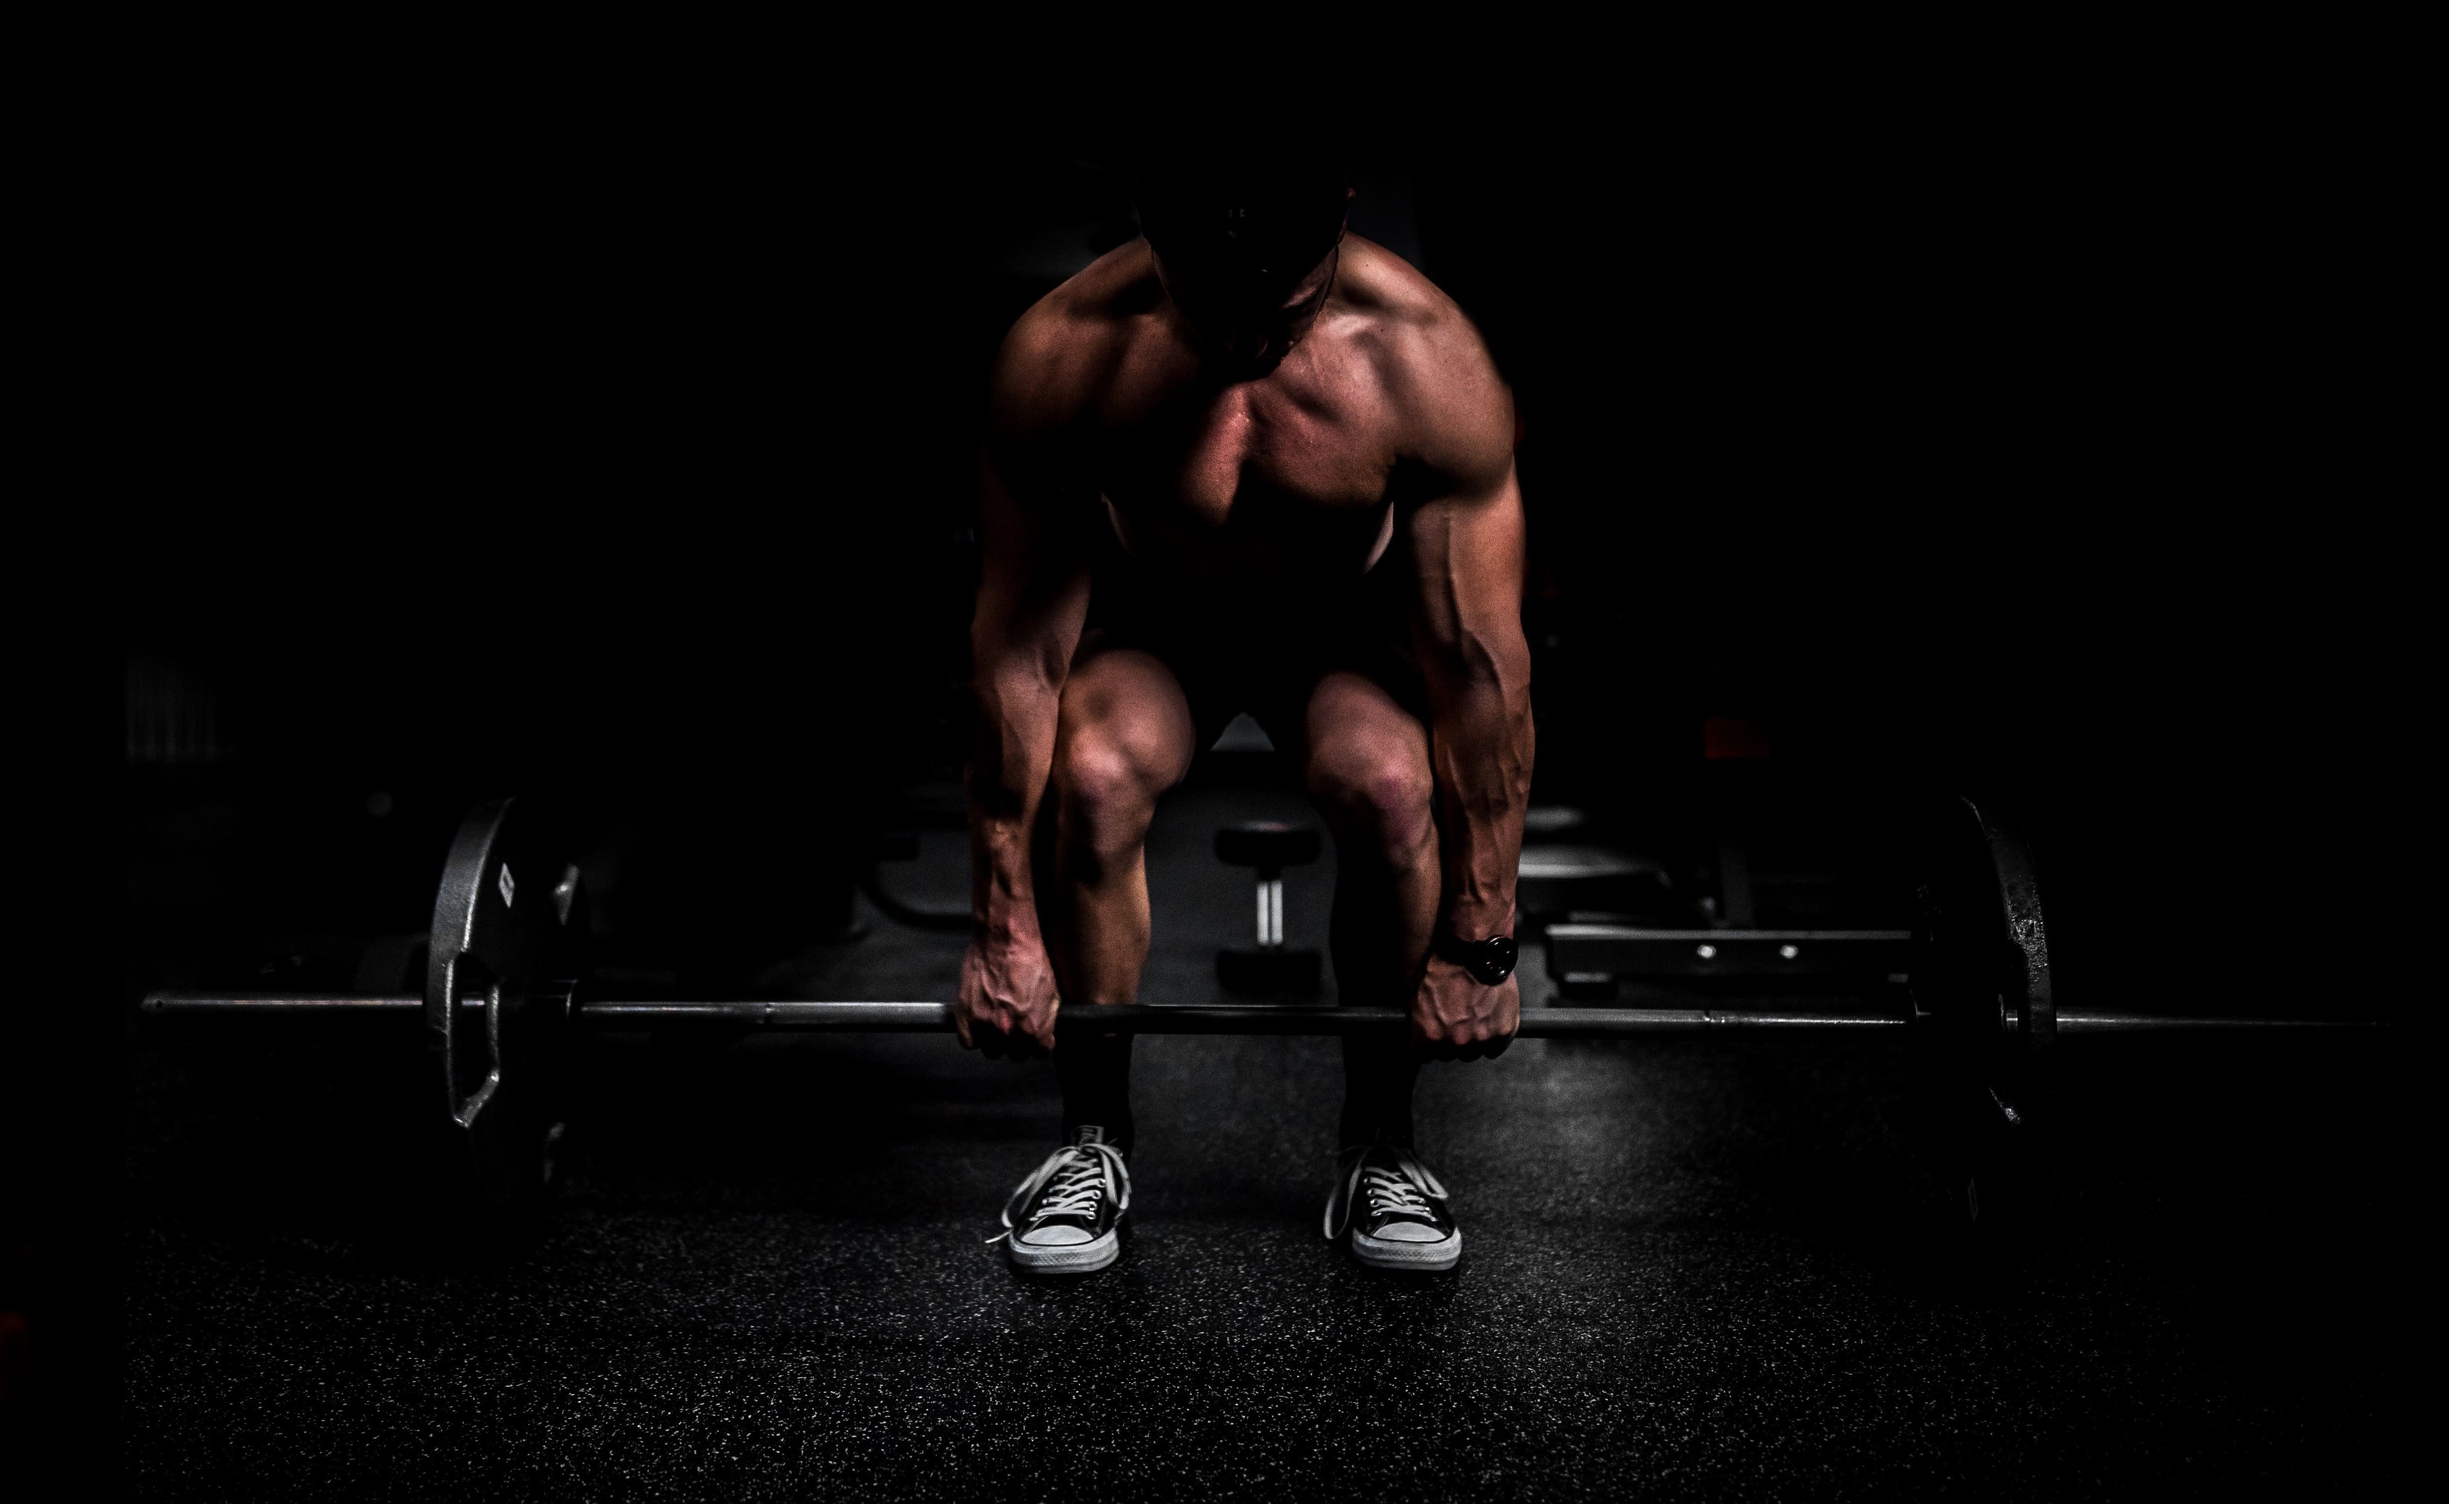
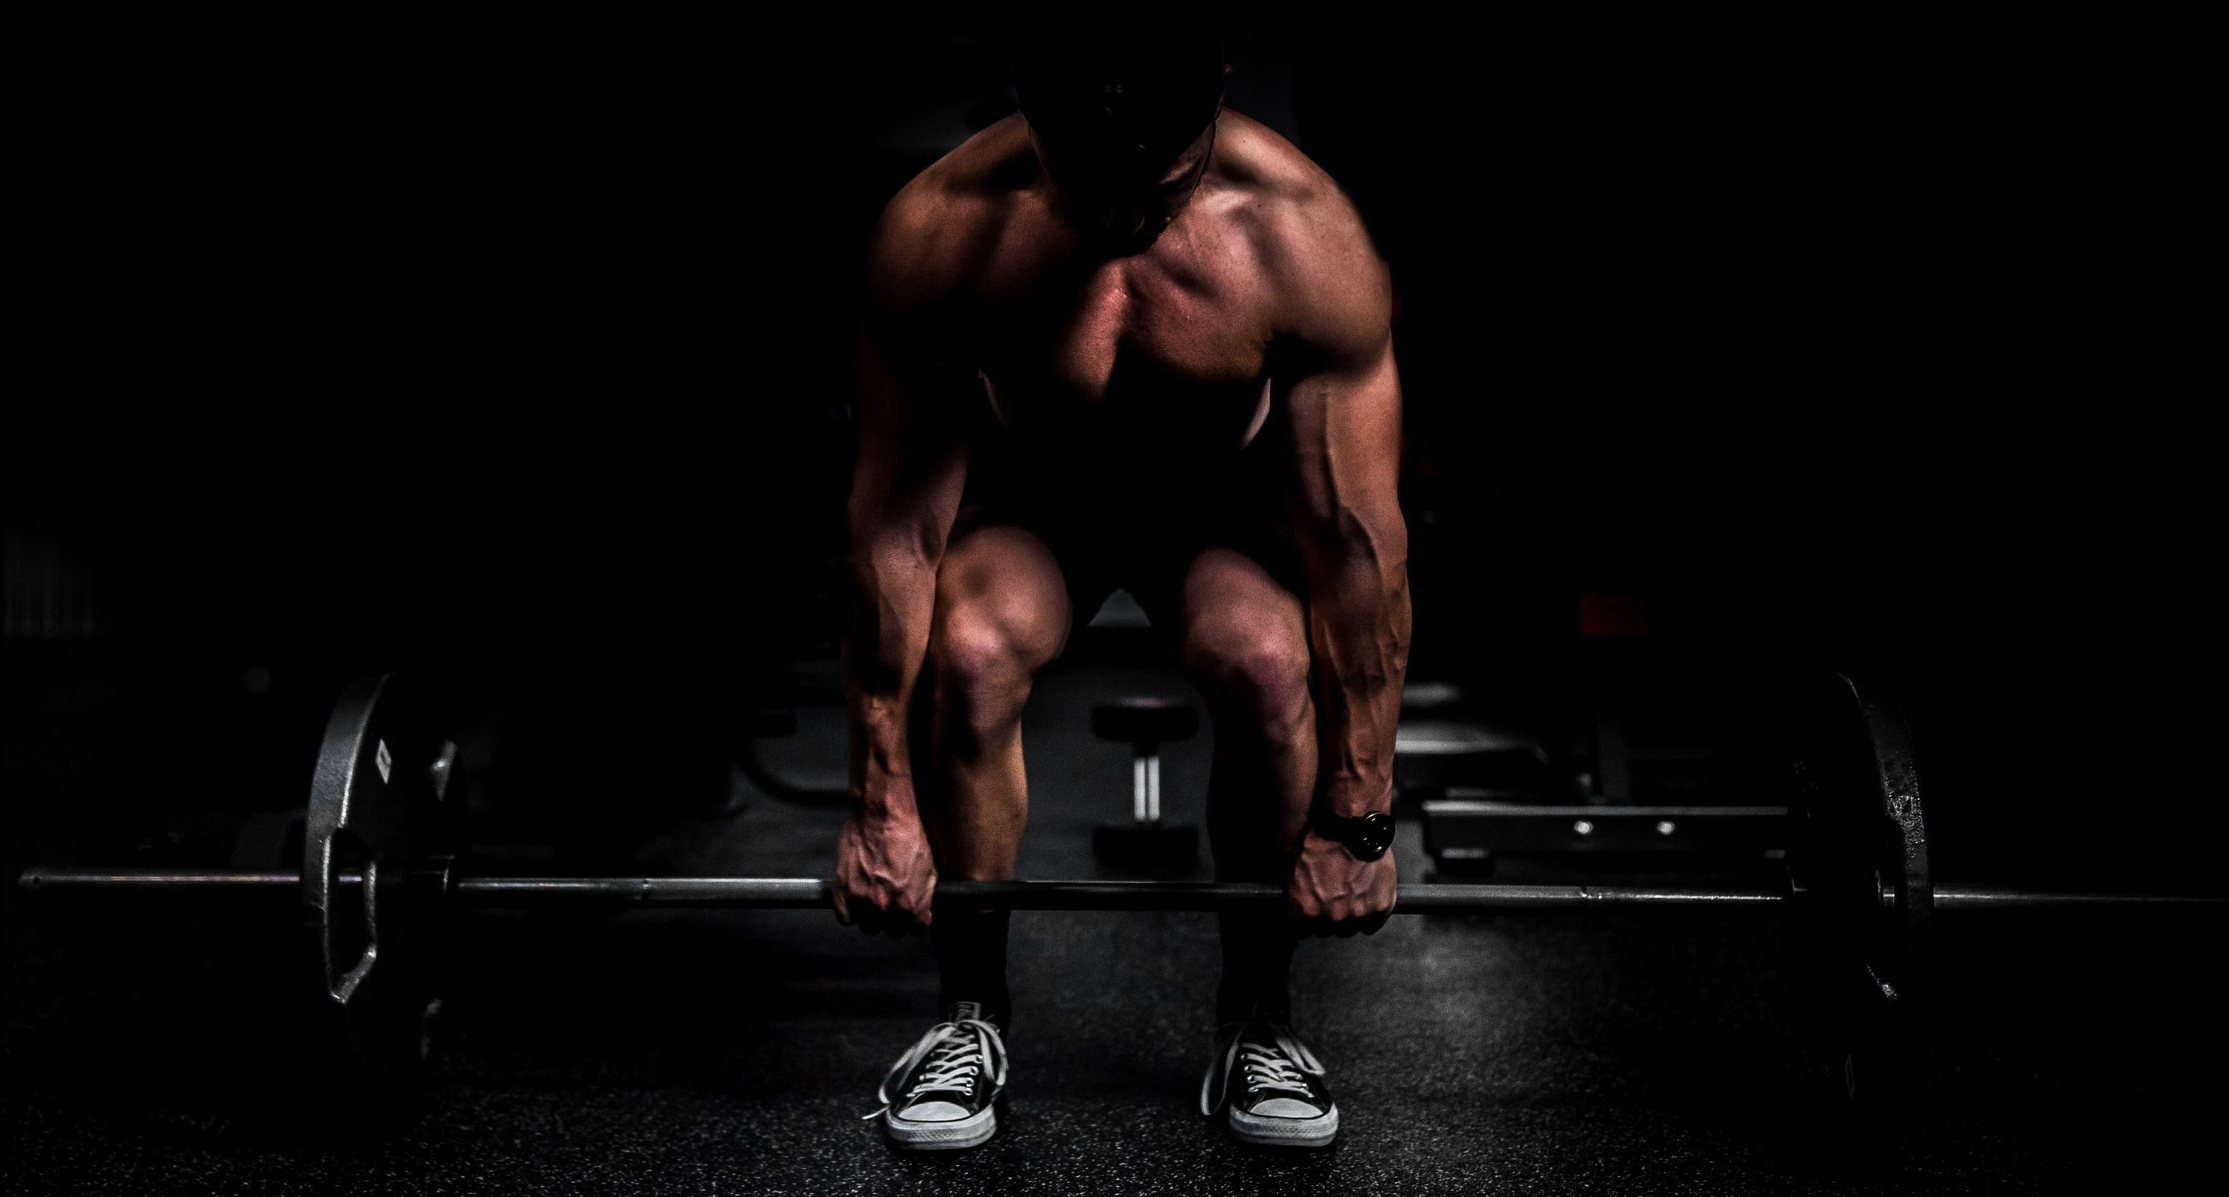
bg image size

Changed region(s): [[0.0, 0.0926, 0.9339, 1.0], [0.1557, 0.8027, 0.1868, 0.8335]]

diff --git a/client/src/css/style.css b/client/src/css/style.css
@@ -102,10 +102,13 @@ nav {
 
 #main {
     background-image: url('../images/home_main_pic2.jpg');
+    height: auto;
+    width:fit-content;
 }
 
 #allExe {
     background-image: url('../images/allExercisesPic.jpg');
+    height: auto;
 }
 
 #mainHeader {
